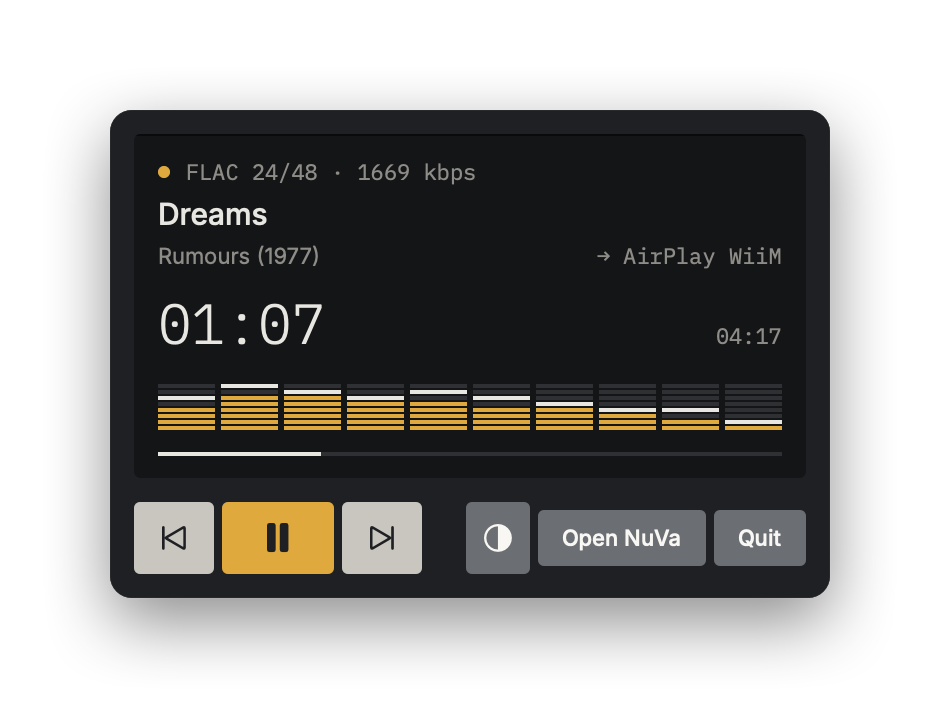
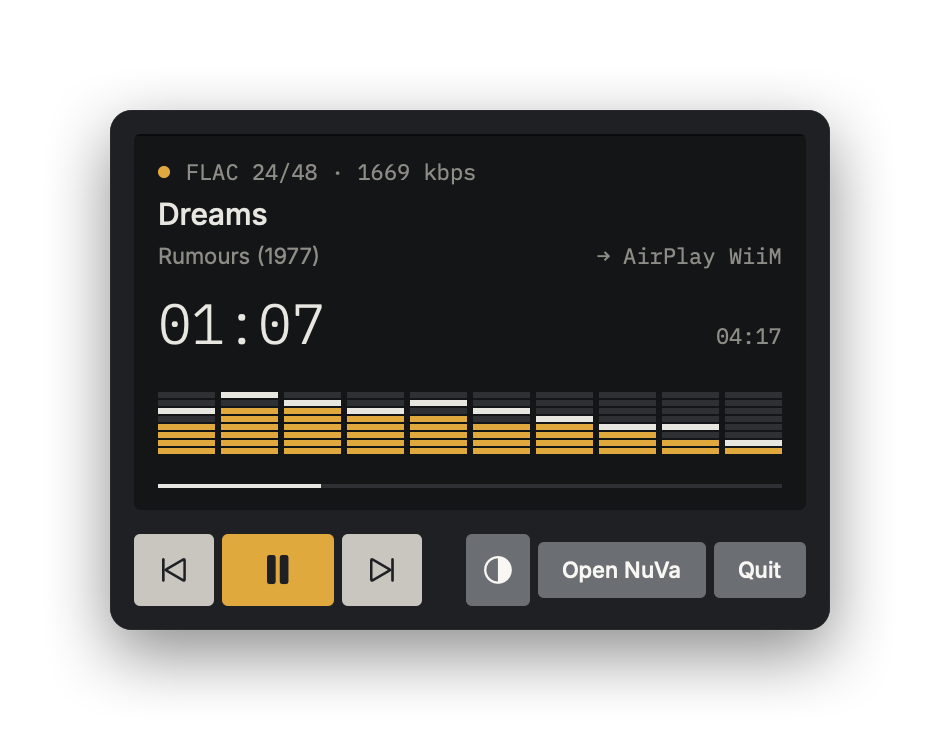
Give the spectrum meter more room on the display
Taller segments, and space above and below so it reads as its own zone.

diff --git a/Sources/UI/DisplayView.swift b/Sources/UI/DisplayView.swift
@@ -87,8 +87,10 @@ struct DisplayView: View {
             .motion(Motion.state, value: allowsArtwork && model.currentArtwork != nil)
 
             if model.showsSpectrum {
+                // Room above and below, so the meter reads as its own zone of the display.
                 SpectrumView()
-                    .padding(.top, Space.s2)
+                    .padding(.top, Space.s3)
+                    .padding(.bottom, Space.s1)
             }
 
             ProgressBar()

diff --git a/Sources/UI/SpectrumView.swift b/Sources/UI/SpectrumView.swift
@@ -11,7 +11,7 @@ struct SpectrumView: View {
     @State private var settling = false
 
     static let segments = 8
-    static let segmentHeight: CGFloat = 2
+    static let segmentHeight: CGFloat = 3
     static let segmentGap: CGFloat = 1
     static let columnGap: CGFloat = 3
     static let height = CGFloat(segments) * (segmentHeight + segmentGap) - segmentGap

diff --git a/docs/design-system/components/Spectrum.md b/docs/design-system/components/Spectrum.md
@@ -4,7 +4,7 @@ A level meter for the equalizer's 10 bands, inside the display, between the time
 
 ## Anatomy
 - 10 columns, one per equalizer band (32 Hz to 16 kHz), 3px apart, full display width.
-- 8 segments per column, 2px tall with 1px gaps (23px in all).
+- 8 segments per column, 3px tall with 1px gaps (31px in all), with `space-3` above and `space-1` below.
 - Lit segments in `led`, unlit in `display-track`, the peak segment in `display-ink`.
 
 ## Behaviour
